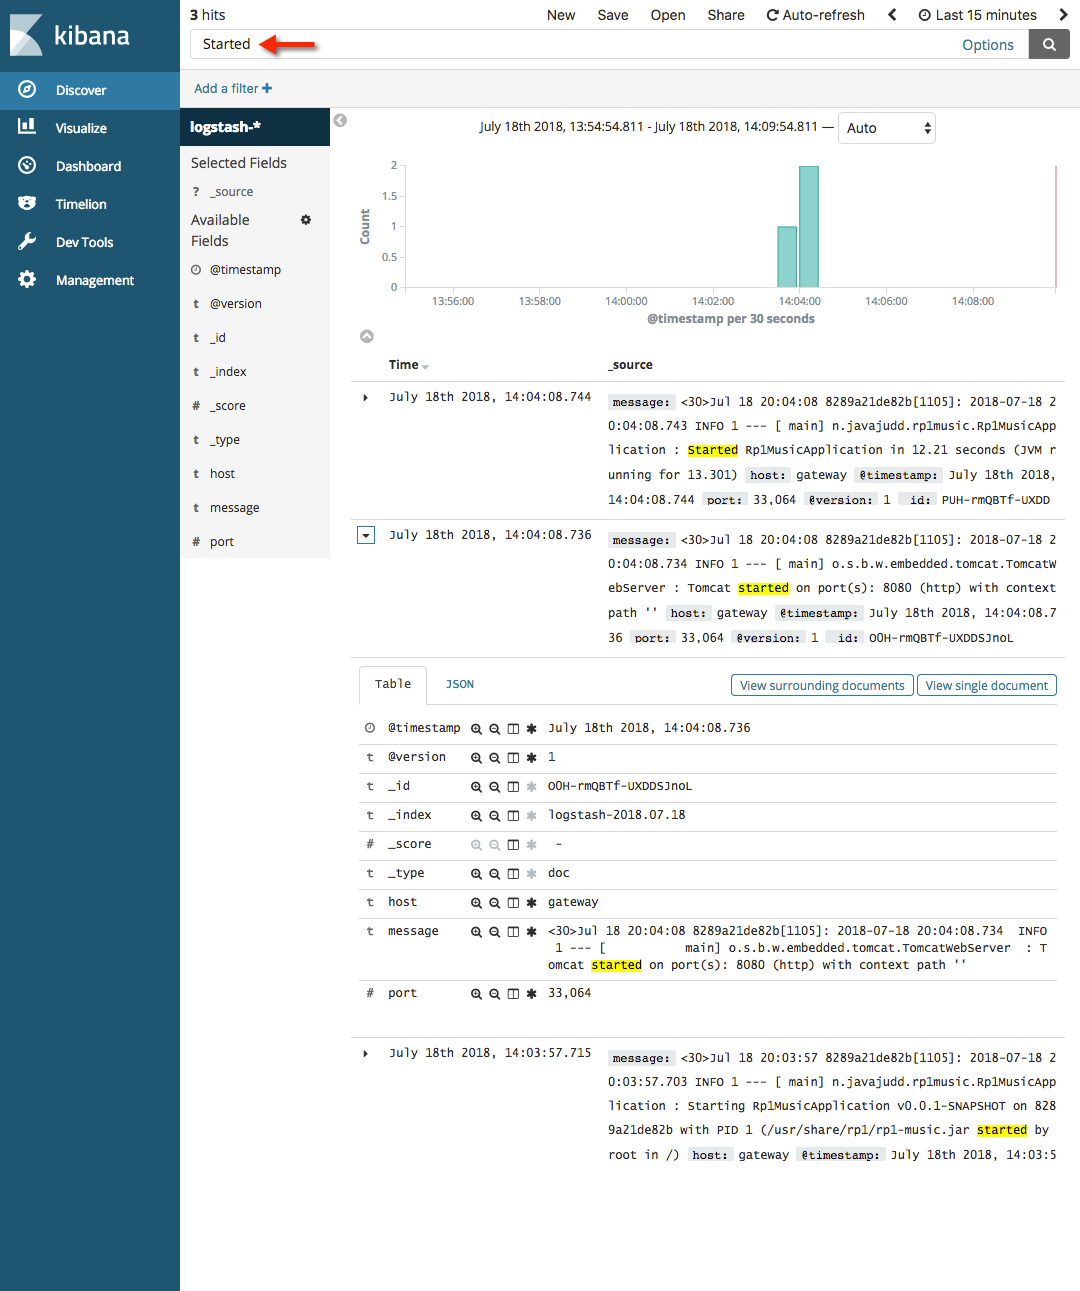
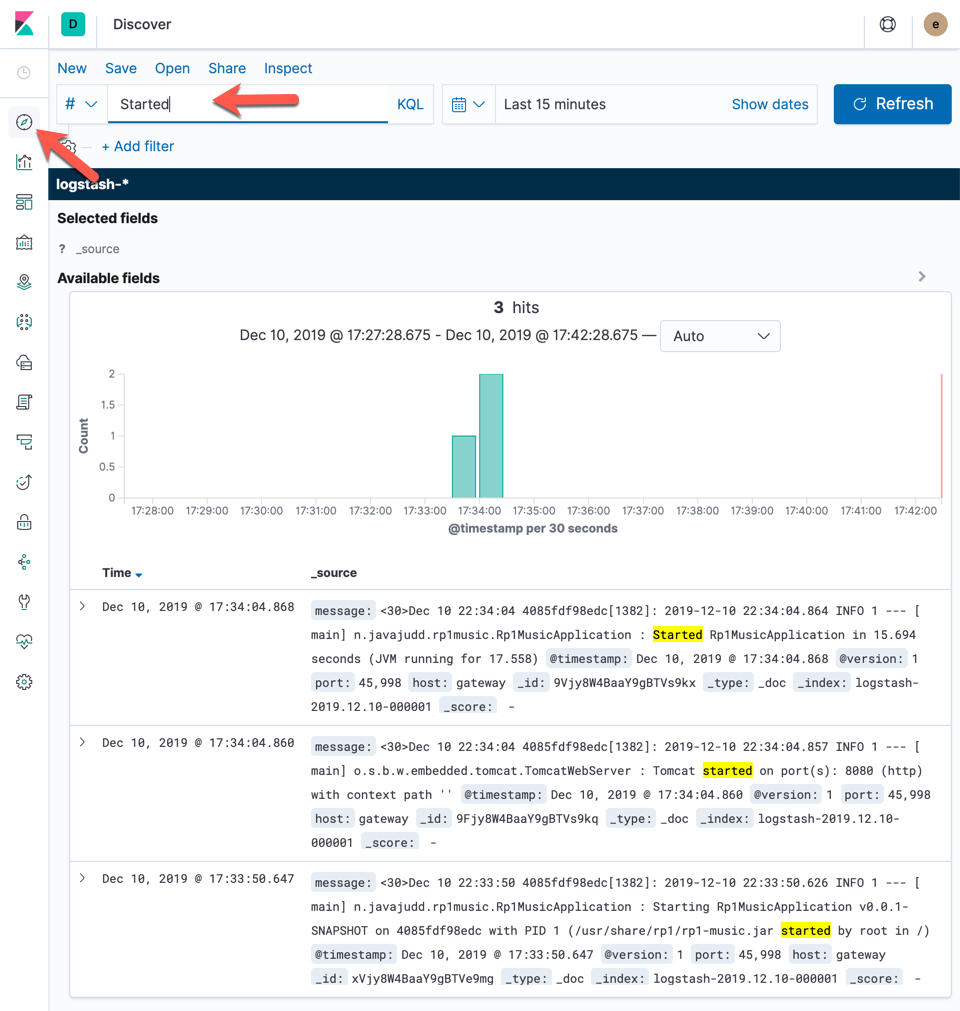
Updated Kibana instructions.

diff --git a/06_logs.md b/06_logs.md
@@ -19,12 +19,13 @@ password: changeme
 docker run --name rp1-music -p 8080:8080 --network rp1-network -e SPRING_DATASOURCE_URL=jdbc:mysql://rp1-music-db:3306/rp1 -e SPRING_DATASOURCE_USERNAME=rp1 -e SPRING_DATASOURCE_PASSWORD=rp1+1 -e SPRING_OUTPUT_ANSI_ENABLED=NEVER --log-driver=syslog --log-opt syslog-address=tcp://:5000 --log-opt syslog-facility=daemon -it --rm javajudd/rp1-music:0.0.1-SNAPSHOT
 ```
 
-4. In Kibana, configure index by going to [Management](http://localhost:5601/app/kibana#/management/kibana/index?_g=()).
+4. In Kibana, configure index by going to [Management](http://localhost:5601/app/kibana#/management?_g=()).
+![Index pattern](images/kibana-management.png)
 
-5. In the Index pattern, enter logstash-* and press Next step.
+5. In the Index pattern, press the Create index pattern button, enter logstash-* and press Next step button.
 ![Index pattern](images/kibana-index-pattern.png)
 
-6. In the Time Filter field name, select @timestamp and press Create index pattern.
+6. In the Time Filter field name, select @timestamp and press Create index pattern button.
 ![Time Filter field](images/kibana-timestamp.png)
 
 7. Now you are ready to use the Discover to search for log related entries.
